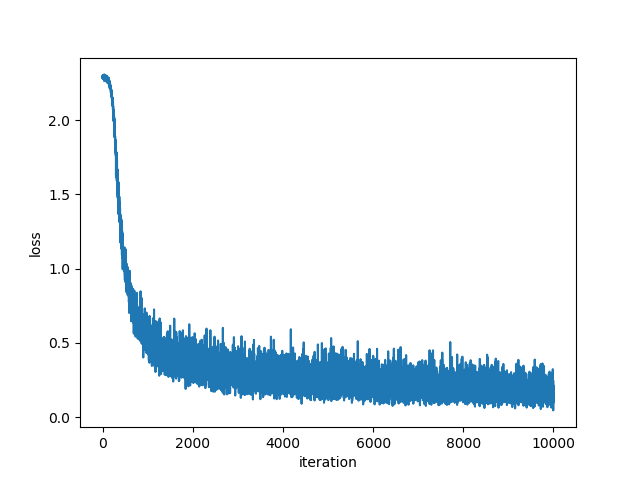
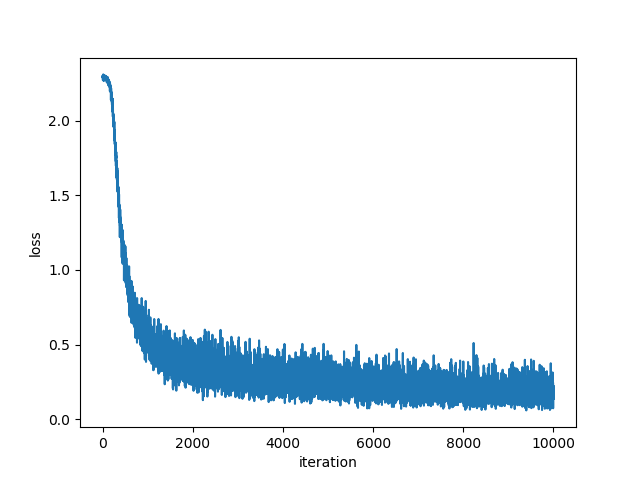
グラフを表示するようにした

diff --git a/train_neuralnet_by_mini_batch.py b/train_neuralnet_by_mini_batch.py
@@ -22,8 +22,8 @@ for i in range(iters_num):
     t_batch = t_train[batch_mask]
 
     # 勾配の計算
-    grad = network.numerical_gradient(x_batch, t_batch)
-    # grad = network.gradient(x_batch, t_batch)  # 高速版！
+    # grad = network.numerical_gradient(x_batch, t_batch)
+    grad = network.gradient(x_batch, t_batch)  # 高速版！
 
     # パラメータの更新
     for key in ("W1", "b1", "W2", "b2"):
@@ -39,3 +39,4 @@ plt.plot(x, train_loss_list)
 plt.xlabel("iteration")
 plt.ylabel("loss")
 plt.savefig("loss_per_iteration_iter10000.png")
+plt.show()
